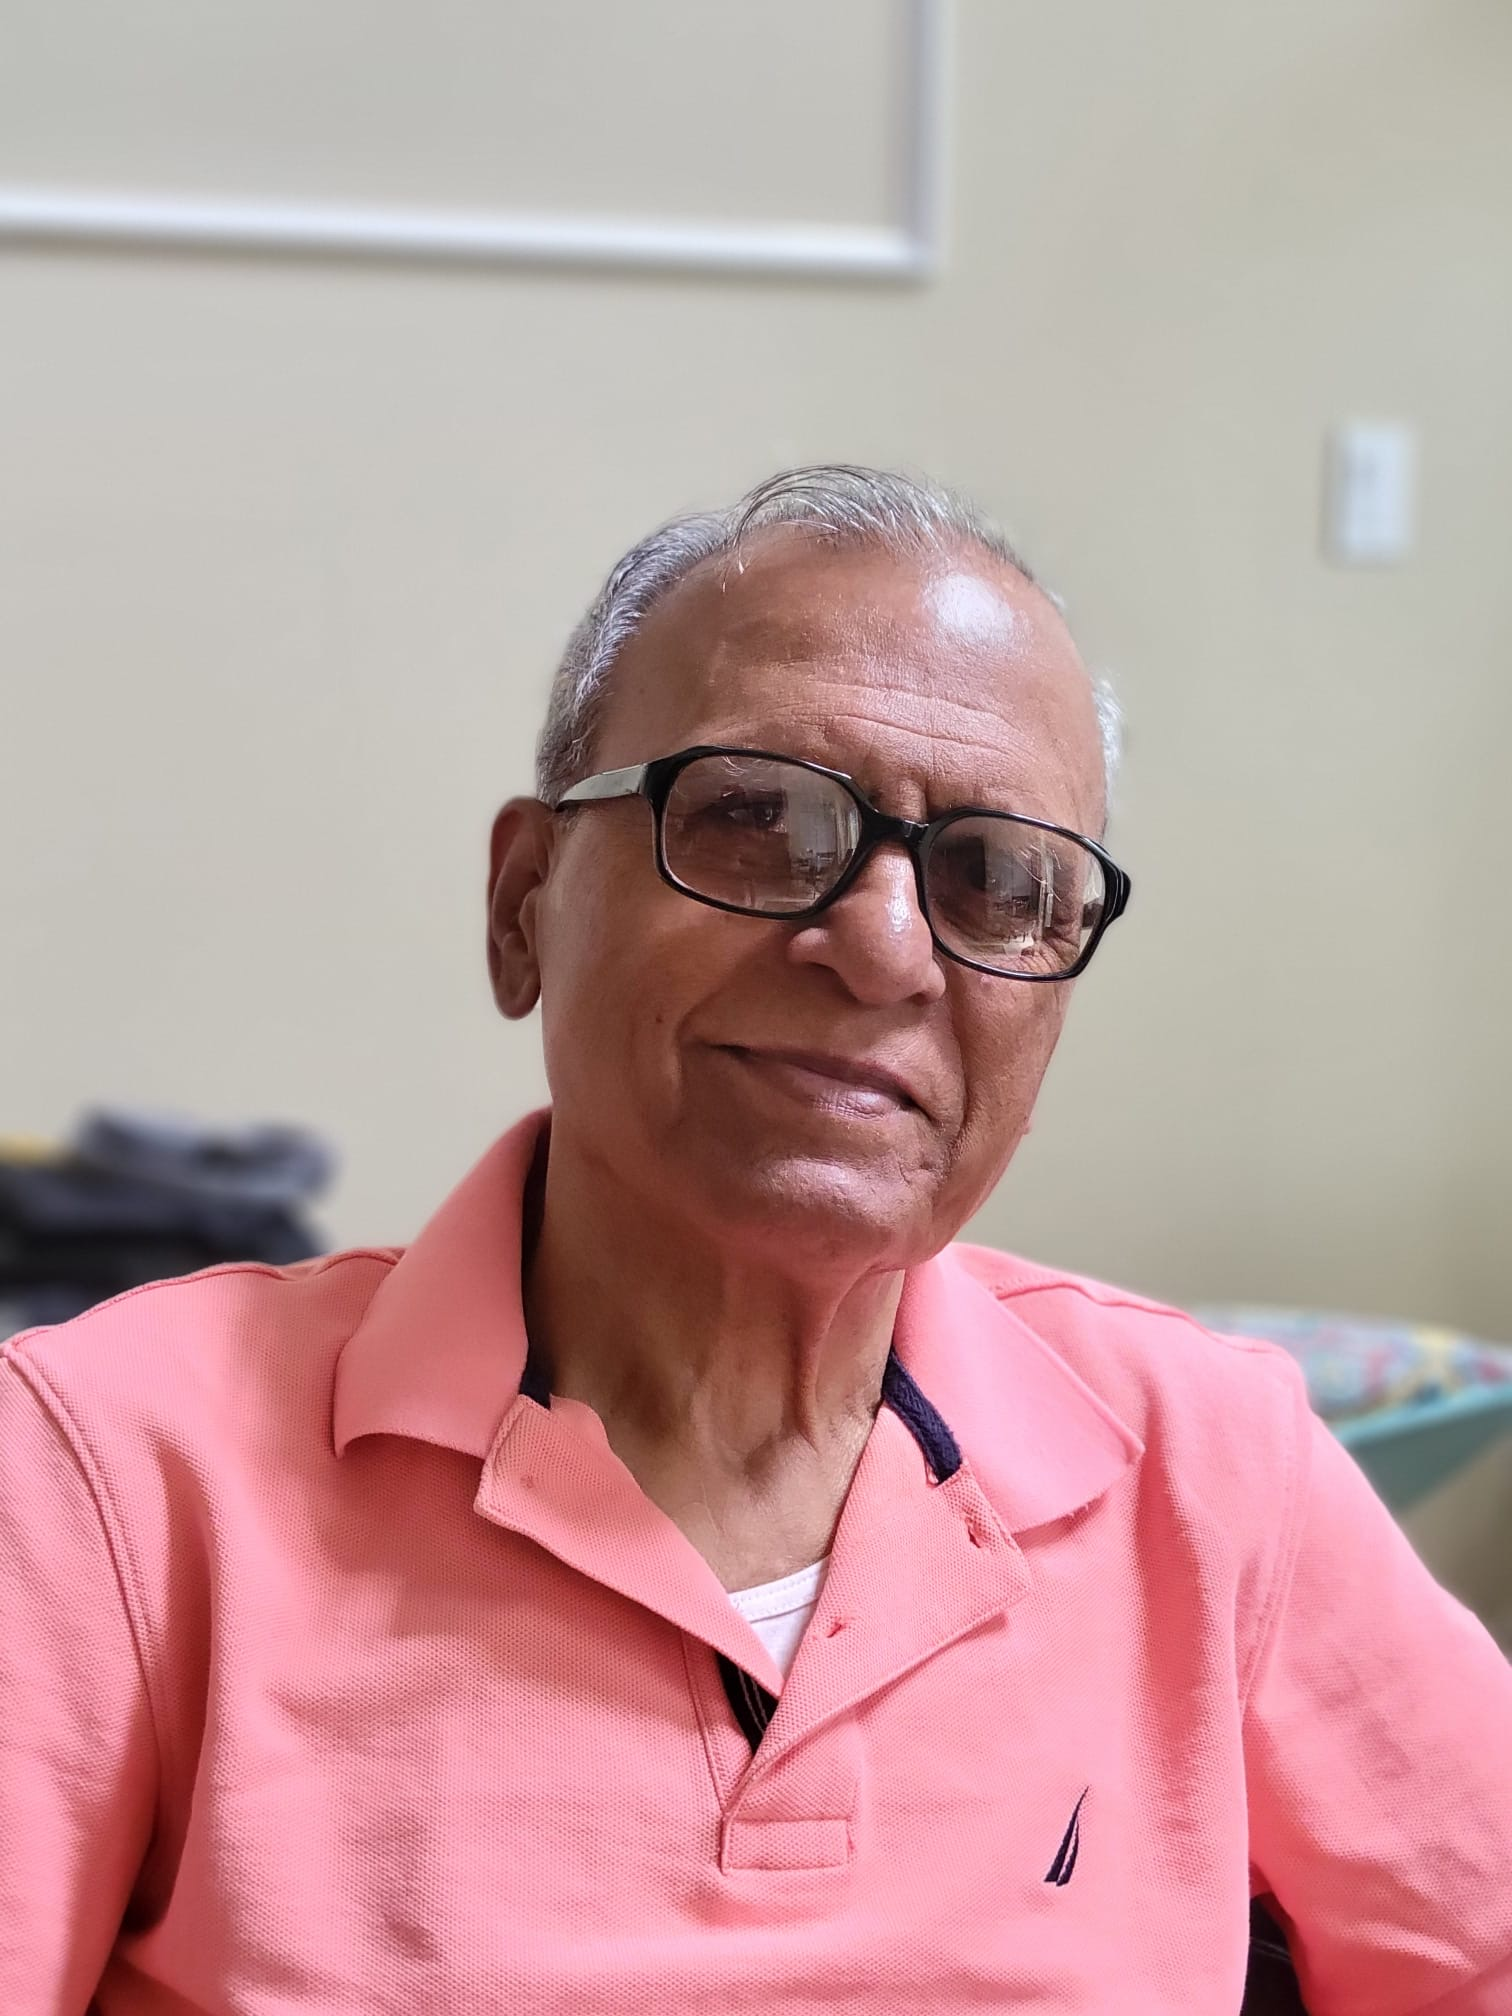
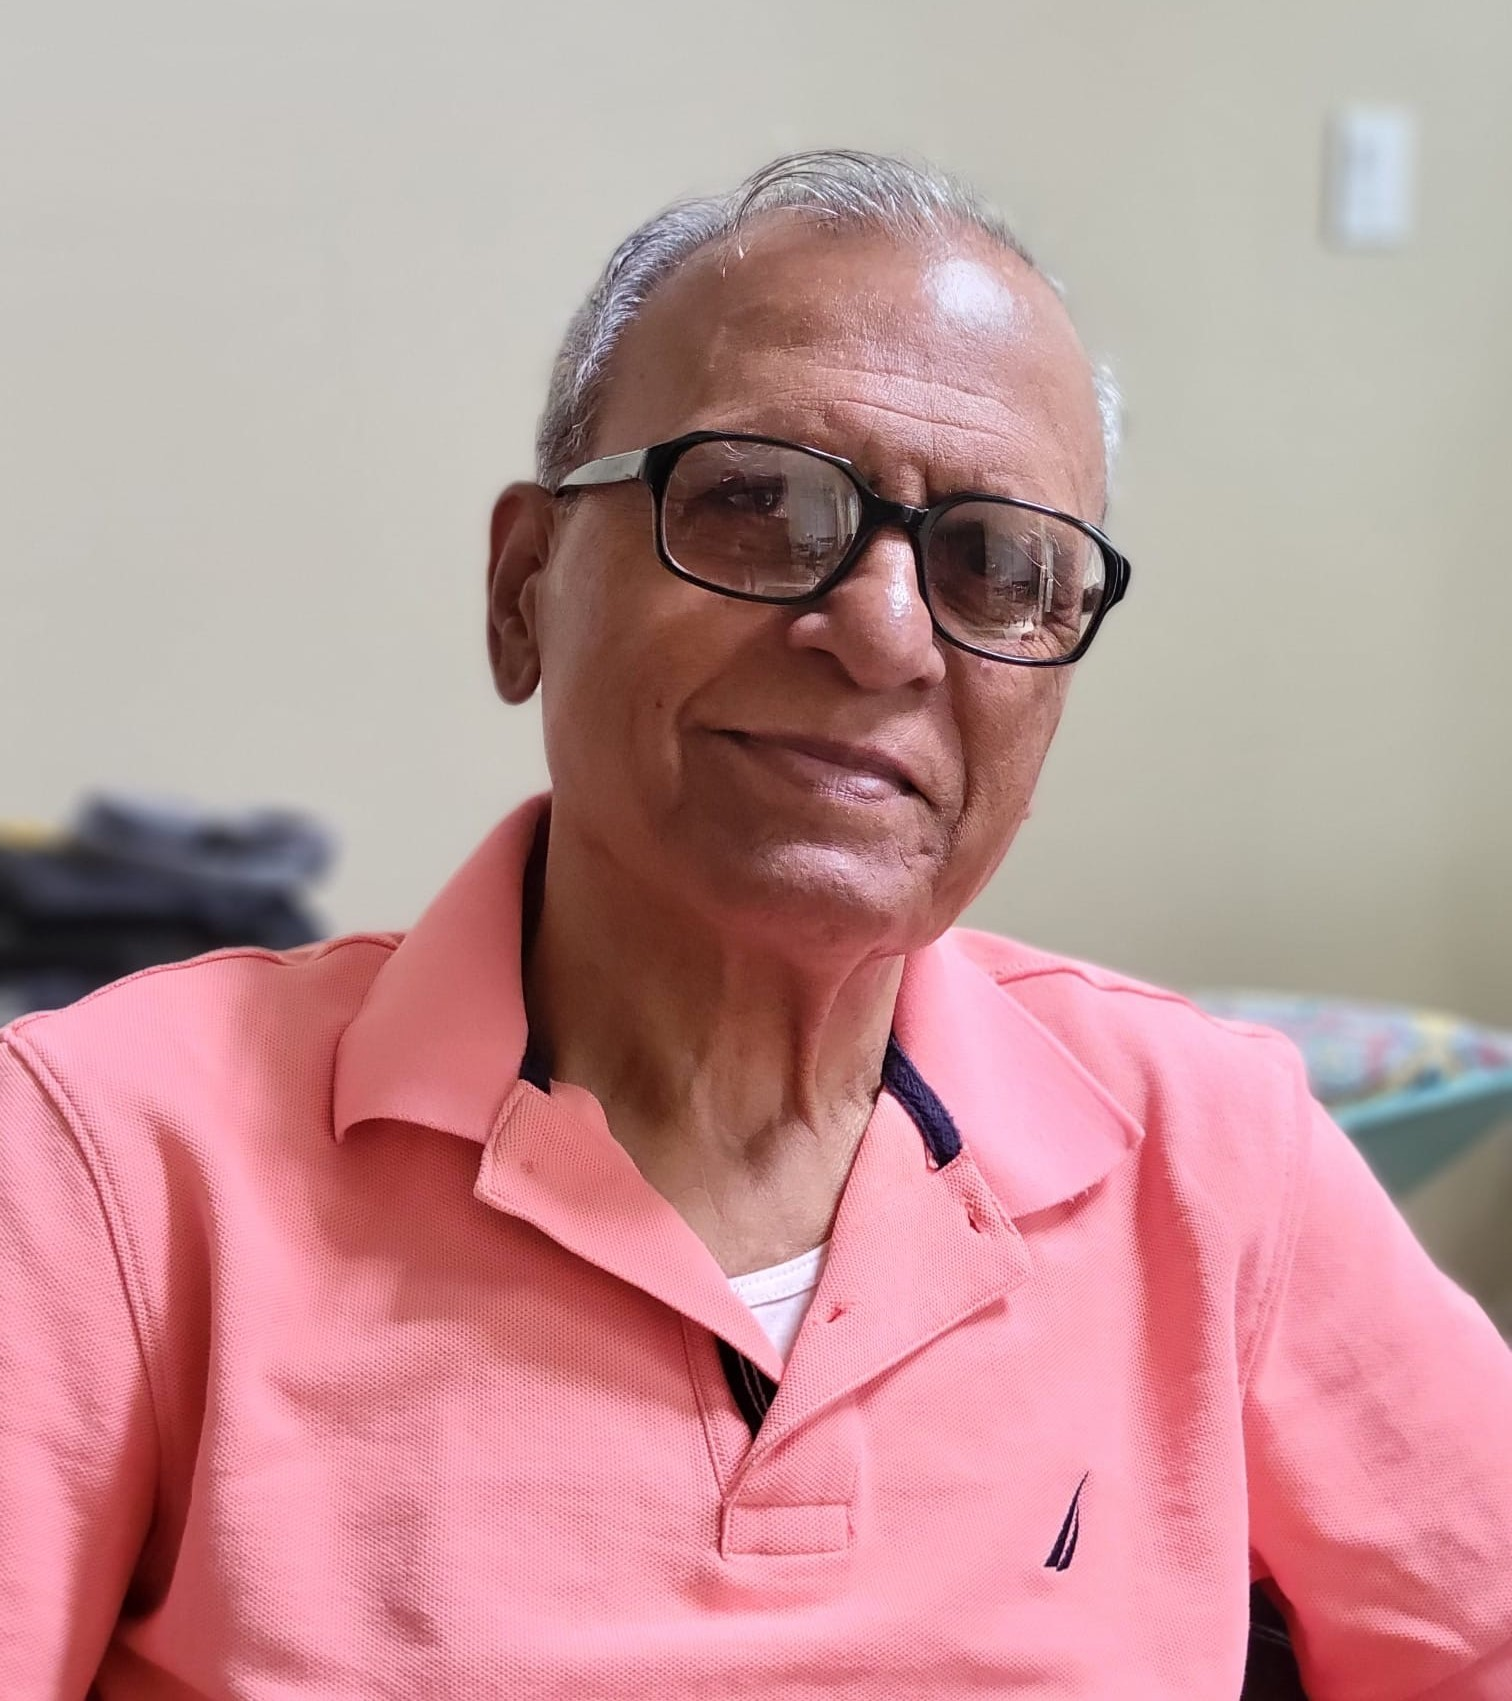
crr-website-4 update artiest photo and name style

diff --git a/about.html b/about.html
@@ -30,7 +30,7 @@
         <section class="about-section">
             <div class="about-container">
                 <div class="about-image">
-                    <img src="images/artist-photo.jpg" alt="Artist Name">
+                    <img src="images/crr.jpg" alt="Artist Name">
                 </div>
                 <div class="about-content">
                     <h1 class="page-title">About the Artist</h1>

diff --git a/css/styles.css b/css/styles.css
@@ -120,8 +120,8 @@ h1, h2, h3, h4 {
 
 .logo {
     font-family: var(--font-serif);
-    font-size: 1.5rem;
-    font-weight: 1000;
+    font-size: 2.0rem;
+    font-weight: 500 ;
     letter-spacing: -0.02em;
 }
 
